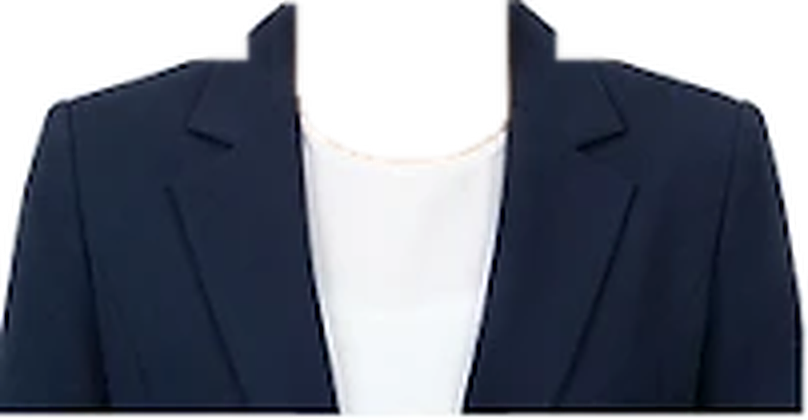
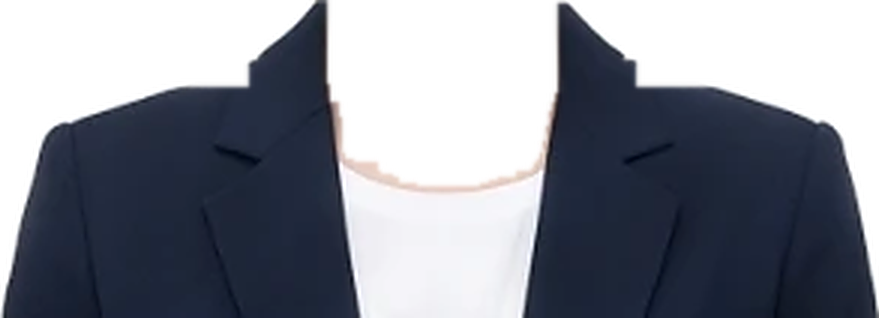
이력서 사진: 실사 정장 21벌로 교체 (여성 10 · 남성 11), 정장이 사진 아래 끝까지 이어지게
Claude-Session: https://claude.ai/code/session_018x9kYEnXDy1RaPqbC8AJcy

diff --git a/src/lib/fun/id-photo.ts b/src/lib/fun/id-photo.ts
@@ -119,7 +119,7 @@ export function outfitOverlay(size: number, layer: OutfitLayer, o: IdOptions): H
   const faceW = size * 0.24;
   if (layer.kind === "template") {
     const k2 = (faceW * 3.9) / layer.tpl.shoulder;
-    ctx.drawImage(layer.img, neckX - layer.tpl.neck[0] * k2, neckY - faceW * 0.1 - layer.tpl.neck[1] * k2, layer.img.naturalWidth * k2, layer.img.naturalHeight * k2);
+    drawSuitImage(ctx, layer.img, neckX - layer.tpl.neck[0] * k2, neckY - faceW * 0.1 - layer.tpl.neck[1] * k2, k2, size);
   } else if (layer.kind === "drawn") {
     const s = size / ID_W;
     ctx.save();
@@ -180,9 +180,19 @@ export function renderIdPhoto(
   if (layer.kind === "template") {
     // 어깨 폭 ≈ 얼굴 폭 3.9배 (그림 정장과 같은 비율), 목 가운데를 맞춰 붙입니다.
     const k2 = (faceW * 3.9) / layer.tpl.shoulder;
-    ctx.drawImage(layer.img, neckX - layer.tpl.neck[0] * k2, neckY - faceW * 0.1 - layer.tpl.neck[1] * k2, layer.img.naturalWidth * k2, layer.img.naturalHeight * k2);
+    drawSuitImage(ctx, layer.img, neckX - layer.tpl.neck[0] * k2, neckY - faceW * 0.1 - layer.tpl.neck[1] * k2, k2, ID_H);
   }
   return canvas;
+}
+
+/**
+ * 실사 정장 그림 붙이기 — 견본 사진이 가슴께에서 끝나므로, 사진 아래 끝까지 맨 아랫줄을 이어 늘려 채웁니다.
+ */
+function drawSuitImage(ctx: Ctx, img: HTMLImageElement, x: number, y: number, k: number, bottom: number) {
+  const w = img.naturalWidth * k;
+  const h = img.naturalHeight * k;
+  ctx.drawImage(img, x, y, w, h);
+  if (y + h < bottom) ctx.drawImage(img, 0, img.naturalHeight - 2, img.naturalWidth, 2, x, y + h - 1, w, bottom - (y + h) + 1);
 }
 
 /** 화사하게 — 사람 부분만 살짝 밝고 따뜻하게 (흐림 없이) */

diff --git a/public/fun/suits/README.md b/public/fun/suits/README.md
@@ -27,6 +27,7 @@ PNG 를 이 폴더에 넣고 `suits.json` 에 한 줄씩 추가합니다.
 
 ## 기본으로 들어 있는 정장
 
-`f-*.png` (여성 3) · `m-*.png` (남성 5) — 증명사진 견본에서 얼굴 · 목 · 배경을 지우고 옷만 남긴 것.
+`f-*.png` (여성 10) · `m-*.png` (남성 11) — 증명사진 견본에서 얼굴 · 목 · 배경을 지우고 옷만 남긴 것.
 `shoulder` 는 원본 얼굴 폭 × 3.9, `neck` 은 원본 턱 위치(옷깃 맨 위에서 얼굴 폭의 0.32 위)로 넣어 얼굴 크기에 맞춰 붙습니다.
 `gender` 는 `m` · `f`. 더 넣으려면 운영자 콘솔 → 👔 정장 사진을 쓰는 게 편합니다.
+견본이 가슴께에서 끝나도, 화면에서는 맨 아랫줄을 사진 아래 끝까지 이어 늘려 채웁니다.
